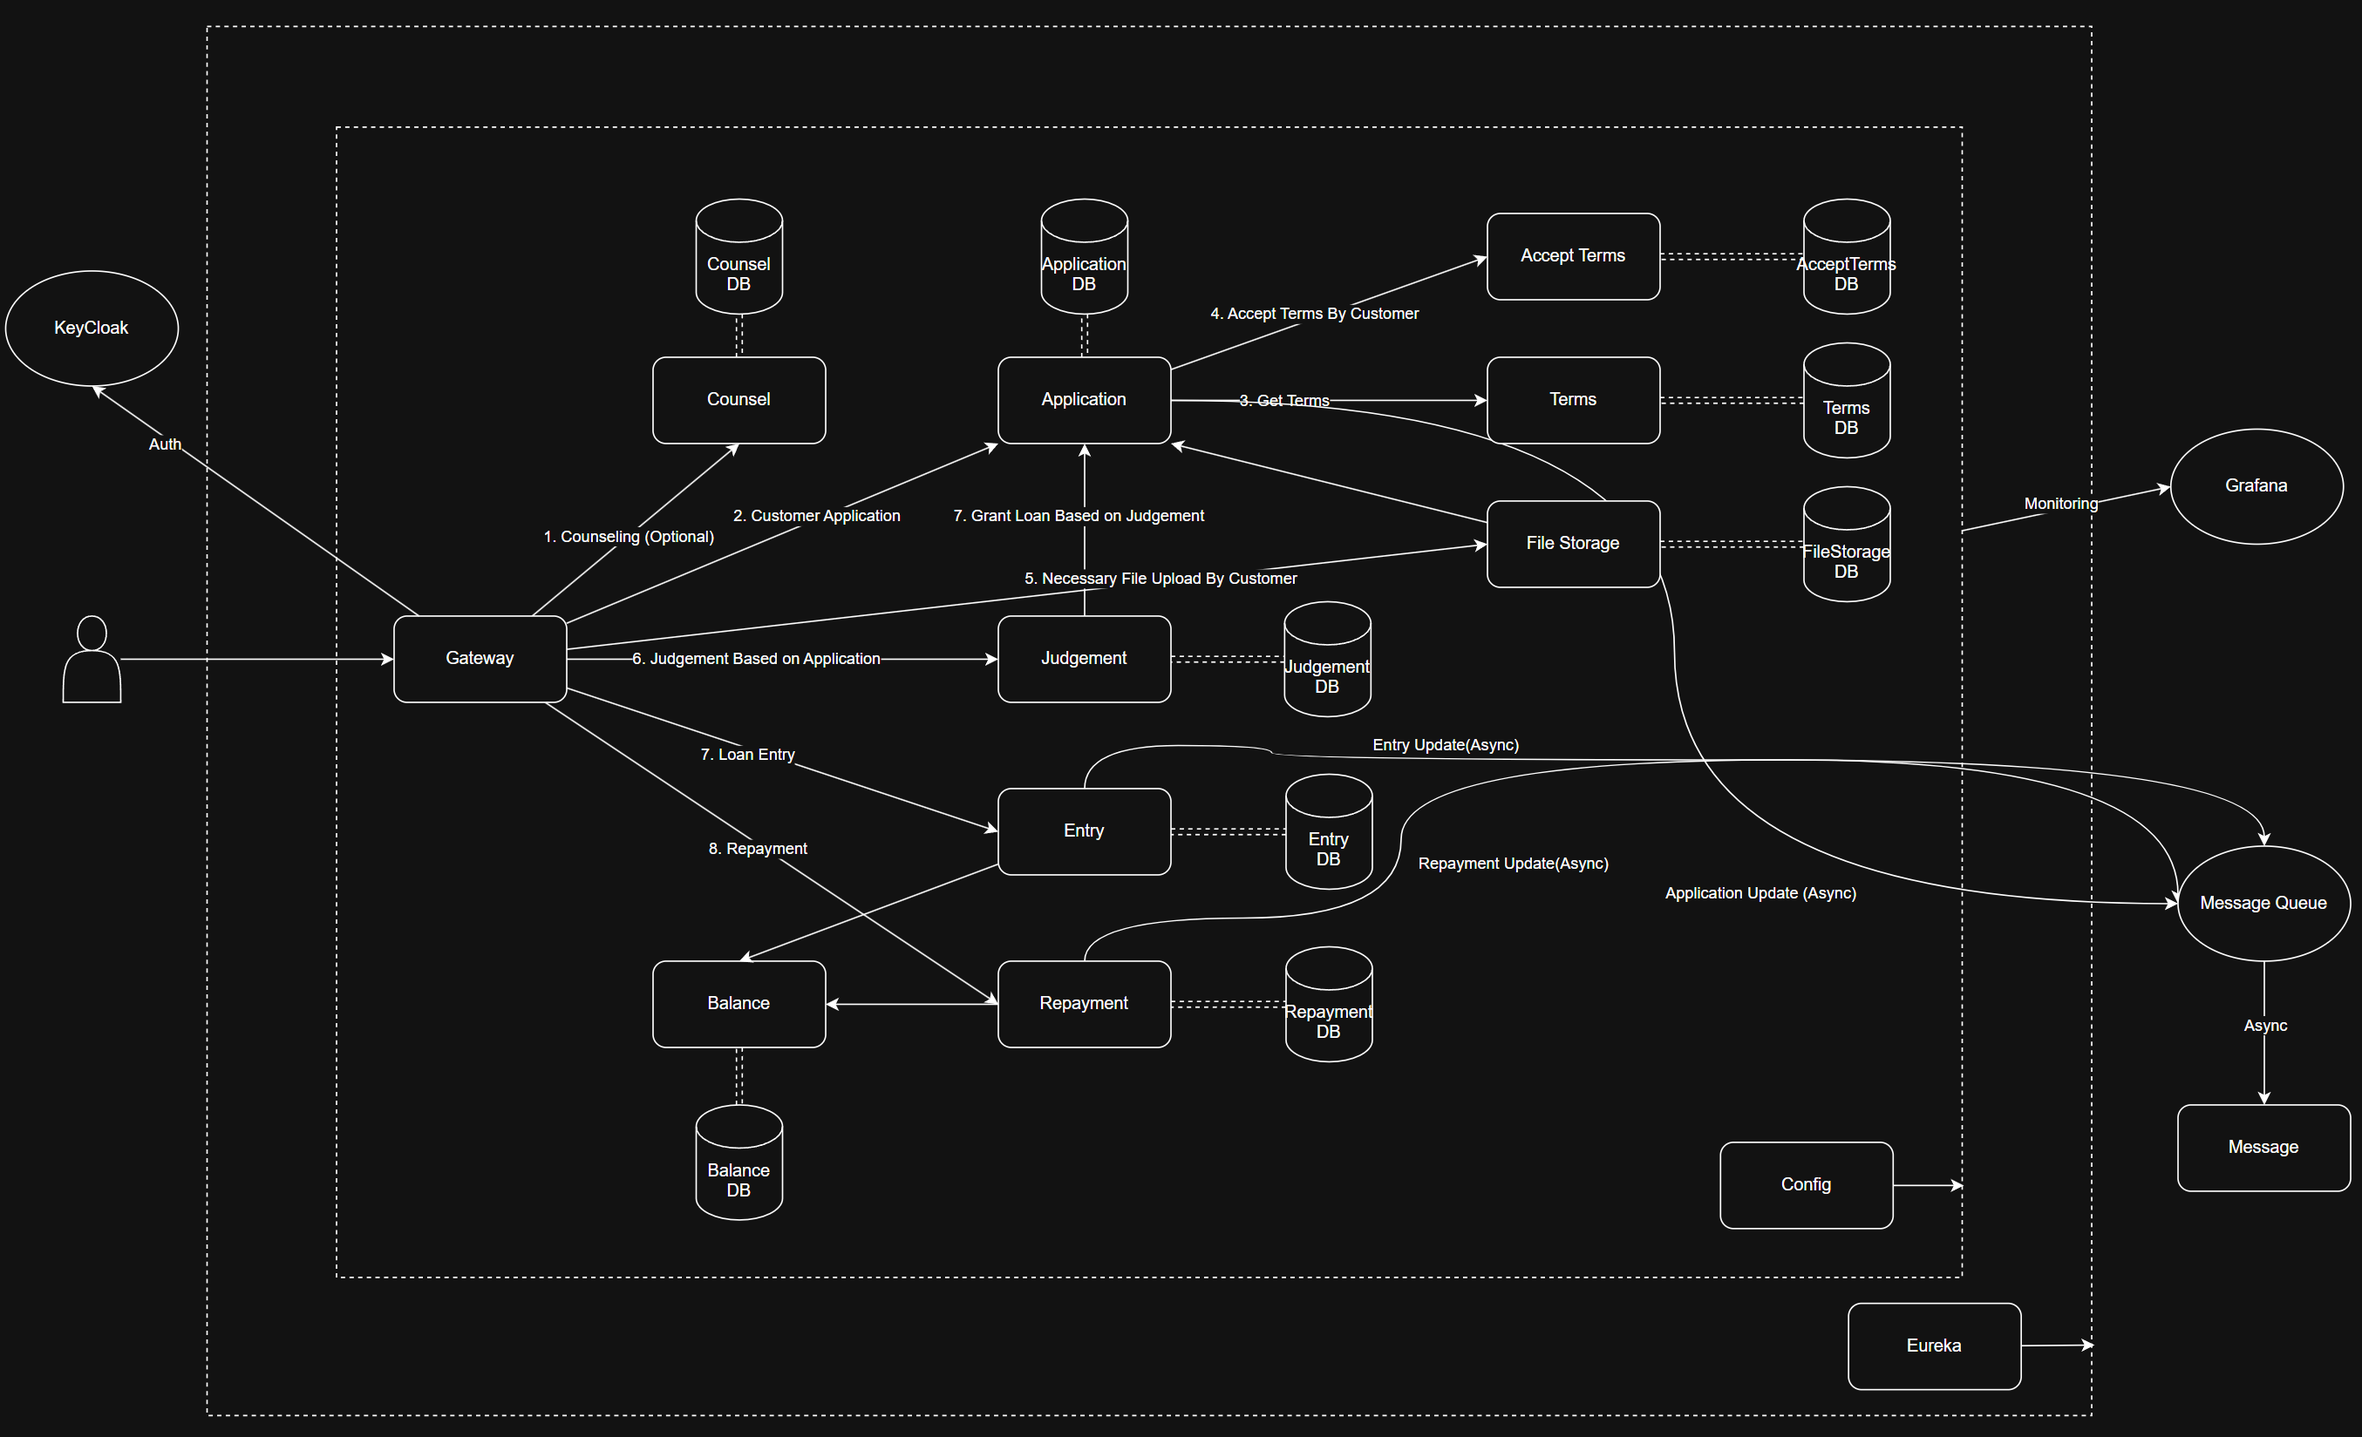
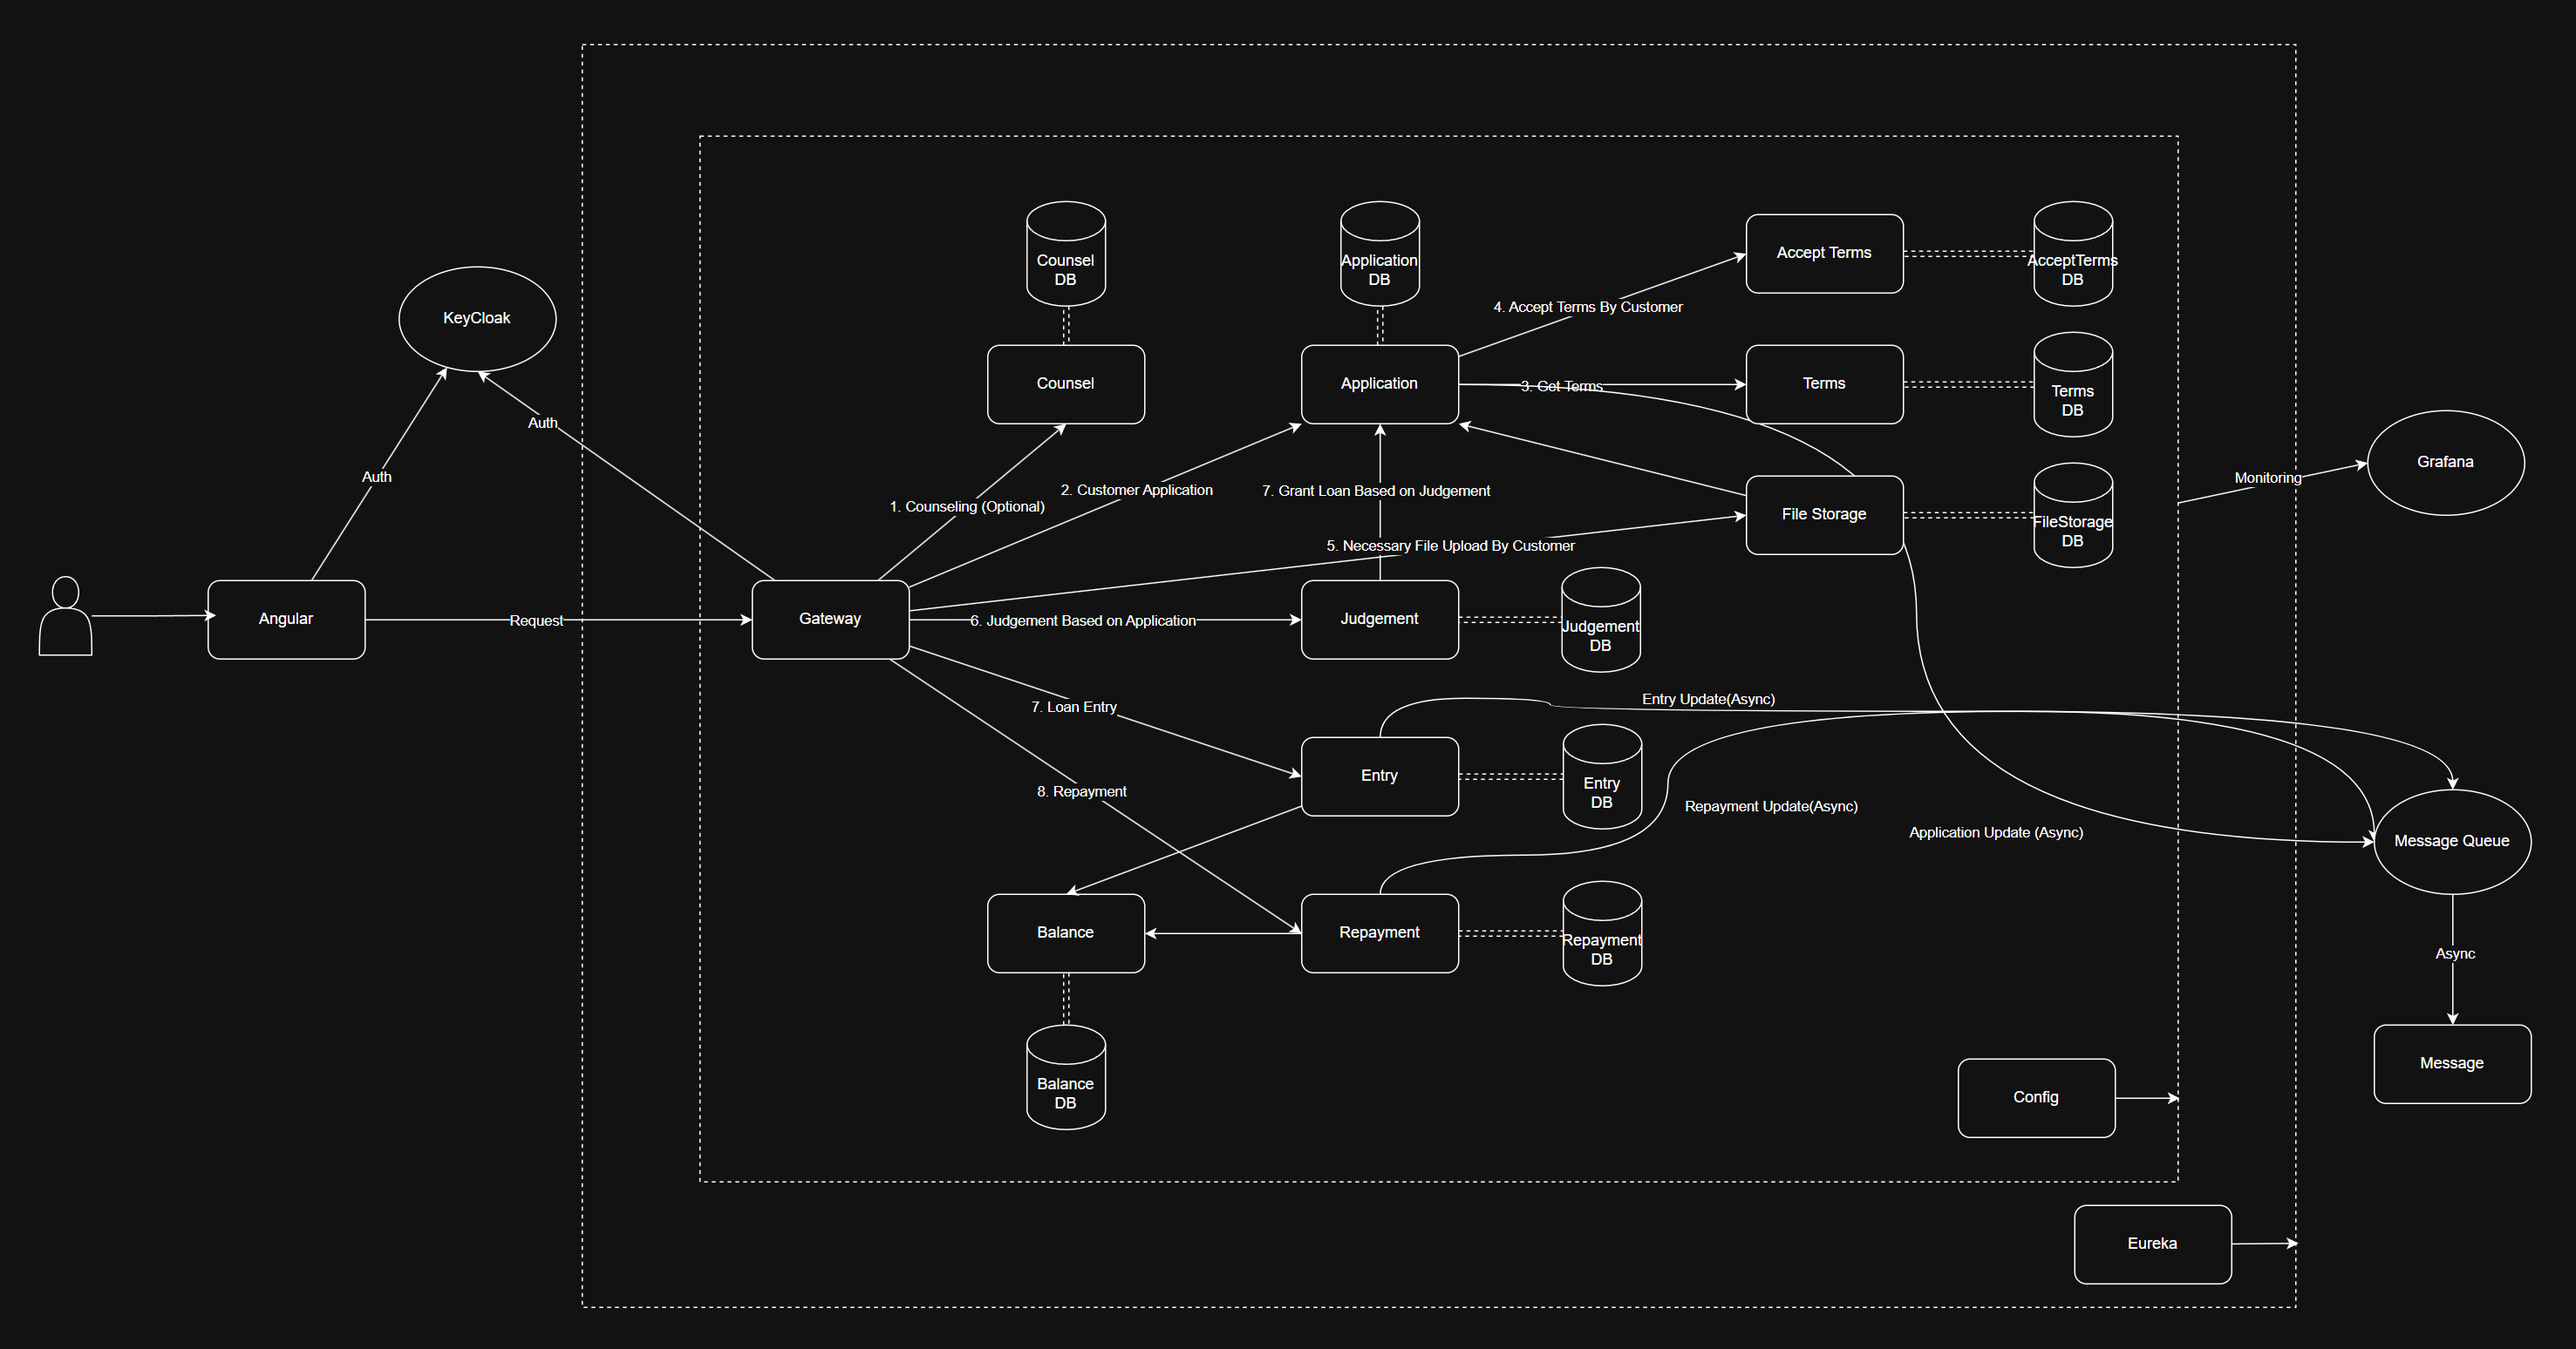
updated readme

diff --git a/README.md b/README.md
@@ -1,15 +1,18 @@
 # Loan Service Project
 
 ## Description
-This project is a microservice architecture built using Spring Boot. It demonstrates how to create modular services that can be independently developed, deployed, monitored.
+This project is built using Spring Boot & Angular with microservices structure in the backend. It demonstrates how to create modular services that can be independently developed, deployed, monitored.
 The project is to simulate loan processes that includes counsel, application, judgement, entry and repayment.
 
 ### Prerequisites
 - Java 21
 - Maven
 - Spring Boot 3.4.1
+- Angular 19.1.4
 
 ### Tech Stack
+
+#### Backend
 - **Spring Boot**
 - **Spring Cloud**
 - **Resilience4j**
@@ -25,9 +28,58 @@ The project is to simulate loan processes that includes counsel, application, ju
 - **Kafka**
 - **H2**
 
+#### Frontend
+- **Angular**
+- **Keycloak-js**
+- **Bootstrap**
+- **ApexCharts.js**
+- **Angular Material**
+
 
 ### Architecture Diagram
 ![Architecture Diagram](screenshots/architecture.png)
 
 ### Application Flow
 ![Flowchart Diagram](screenshots/flowchart.png)
+
+### Customer Input Validation
+![Customer Input Validation Demo](screenshots/customer_input_validation.gif)
+
+### Customer Counsel
+![Customer Counsel Demo](screenshots/customer_counsel.gif)
+
+### Customer Application
+![Customer Application Demo](screenshots/customer_application.gif)
+
+### Customer Loan Contract
+![Customer Loan Contract Demo](screenshots/customer_contract.gif)
+
+### Customer Repayment
+![Customer Repayment Demo](screenshots/customer_repayment.gif)
+
+### Customer Repayment Final
+![Customer Repayment Final Demo](screenshots/customer_repayment_final.gif)
+
+### Customer Dashboard
+![Customer Dashboard Demo](screenshots/customer_dashboard.gif)
+
+### Manager Counsel
+![Manager Counsel Demo](screenshots/manager_counsel.gif)
+
+### Manager Judgement
+![Manager Judgement Demo](screenshots/manager_Judgement.gif)
+
+### Manager Grant Judgement
+![Manager Grant Judgement Demo](screenshots/manager_grant_judgement.gif)
+
+### Manager Payout
+![Manager Payout Demo](screenshots/manager_payout.gif)
+
+### Manager Application Final
+![Manager Application Final Demo](screenshots/manager_application_final.png)
+
+### Manager Dashboard
+![Manager Dashboard Demo](screenshots/manager_dashboard.gif)
+
+
+
